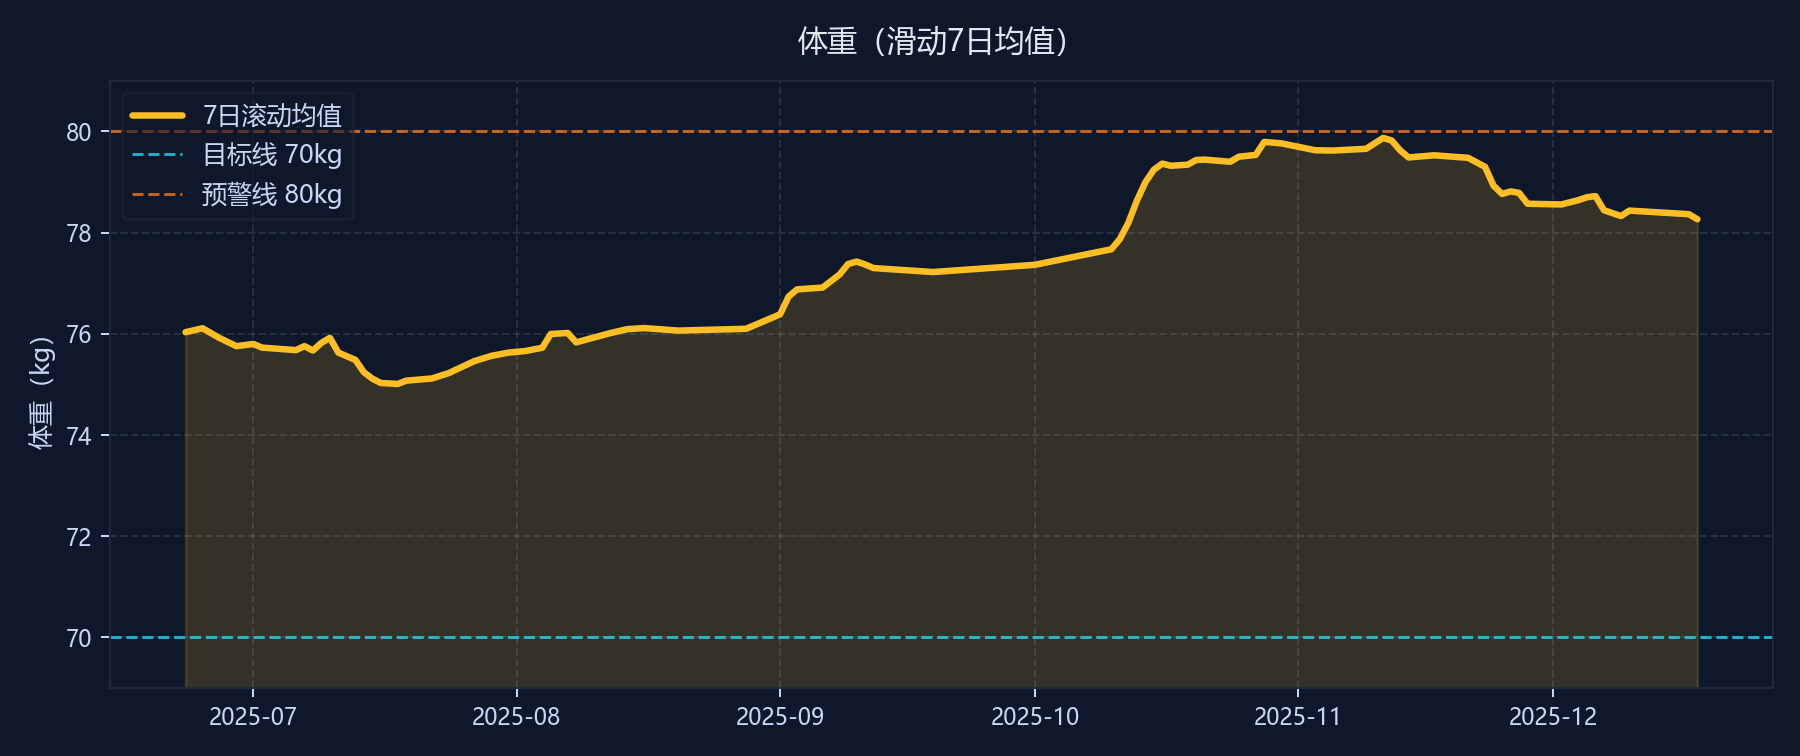
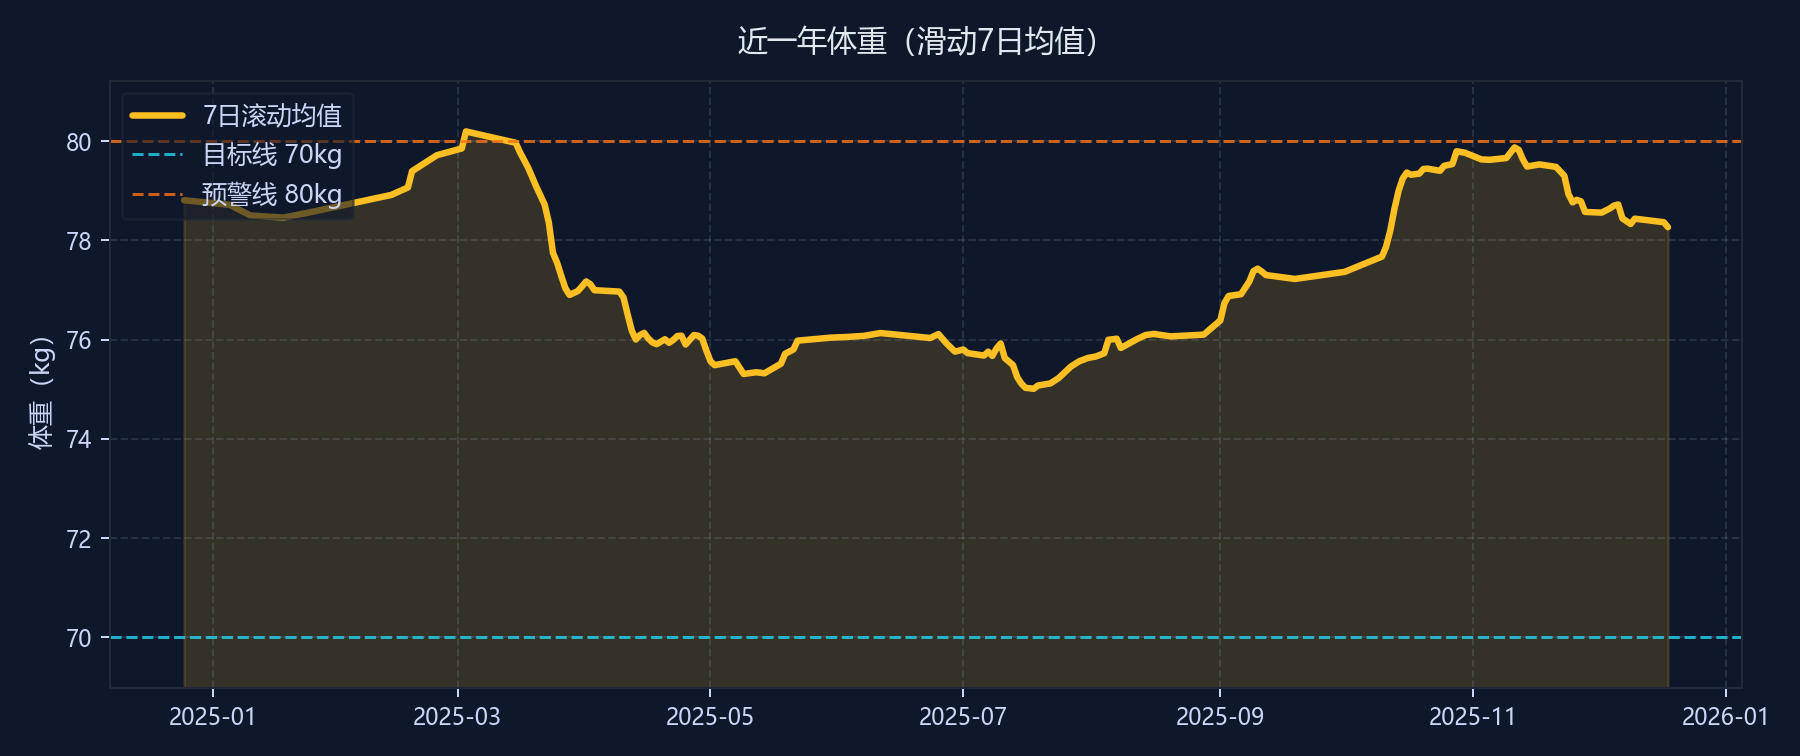
feat:yearly-trends

diff --git a/index.html b/index.html
@@ -322,9 +322,9 @@
         <div class="scroll-wrap" style="margin-top: 12px;">
           <div id="health-charts" style="display: grid; gap: 18px;">
             <div style="display: grid; gap: 10px;">
-              <h3 style="margin: 0;">近三个月睡眠时长（7日均值）</h3>
-              <img src="health/sleep_weekly.png" alt="近三个月睡眠趋势" style="max-width: 100%; border-radius: 12px;" />
-              <h3 style="margin: 0;">体重（滑动7日均值）</h3>
+              <h3 style="margin: 0;">近一年睡眠时长（7日均值）</h3>
+              <img src="health/sleep_weekly.png" alt="近一年睡眠趋势" style="max-width: 100%; border-radius: 12px;" />
+              <h3 style="margin: 0;">近一年体重（滑动7日均值）</h3>
               <img src="health/weight_trend.png" alt="体重趋势（7日均值）" style="max-width: 100%; border-radius: 12px;" />
             </div>
           </div>

diff --git a/health/plot_trends.py b/health/plot_trends.py
@@ -125,13 +125,15 @@ def plot_sleep():
     daily["sleep_ma7"] = daily["sleep_hours"].rolling(window=7, min_periods=1).mean()
 
     last_date = daily["date"].max()
-    cutoff_90 = last_date - pd.Timedelta(days=90)
-    recent_90 = daily[daily["date"] >= cutoff_90]
+    cutoff_365 = last_date - pd.Timedelta(days=365)
+    recent_365 = daily[daily["date"] >= cutoff_365]
+    if recent_365.empty:
+        recent_365 = daily
 
     render_series(
-        recent_90["date"],
-        recent_90["sleep_ma7"],
-        "近三个月睡眠时长（滑动7日均值）",
+        recent_365["date"],
+        recent_365["sleep_ma7"],
+        "近一年睡眠时长（滑动7日均值）",
         OUT_SLEEP_WEEKLY,
         "#22c55e",
         "#22c55e",
@@ -150,14 +152,14 @@ def plot_weight():
     df.sort_values("date", inplace=True)
     df["weight_ma7"] = df["weight_kg"].rolling(window=7, min_periods=1).mean()
     last_date = df["date"].max()
-    cutoff = last_date - pd.Timedelta(days=180)
+    cutoff = last_date - pd.Timedelta(days=365)
     recent = df[df["date"] >= cutoff]
     if recent.empty:
-        return
+        recent = df
     render_series(
         recent["date"],
         recent["weight_ma7"],
-        "体重（滑动7日均值）",
+        "近一年体重（滑动7日均值）",
         OUT_WEIGHT,
         "#fbbf24",
         "#fbbf24",
